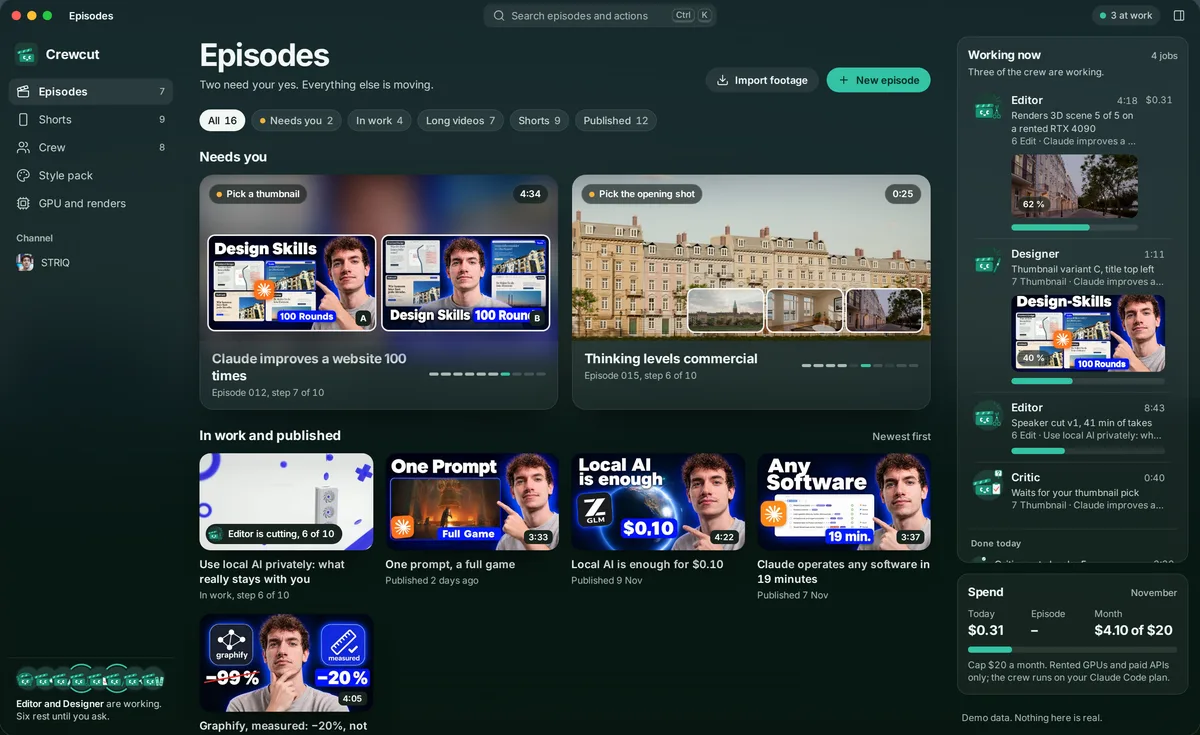
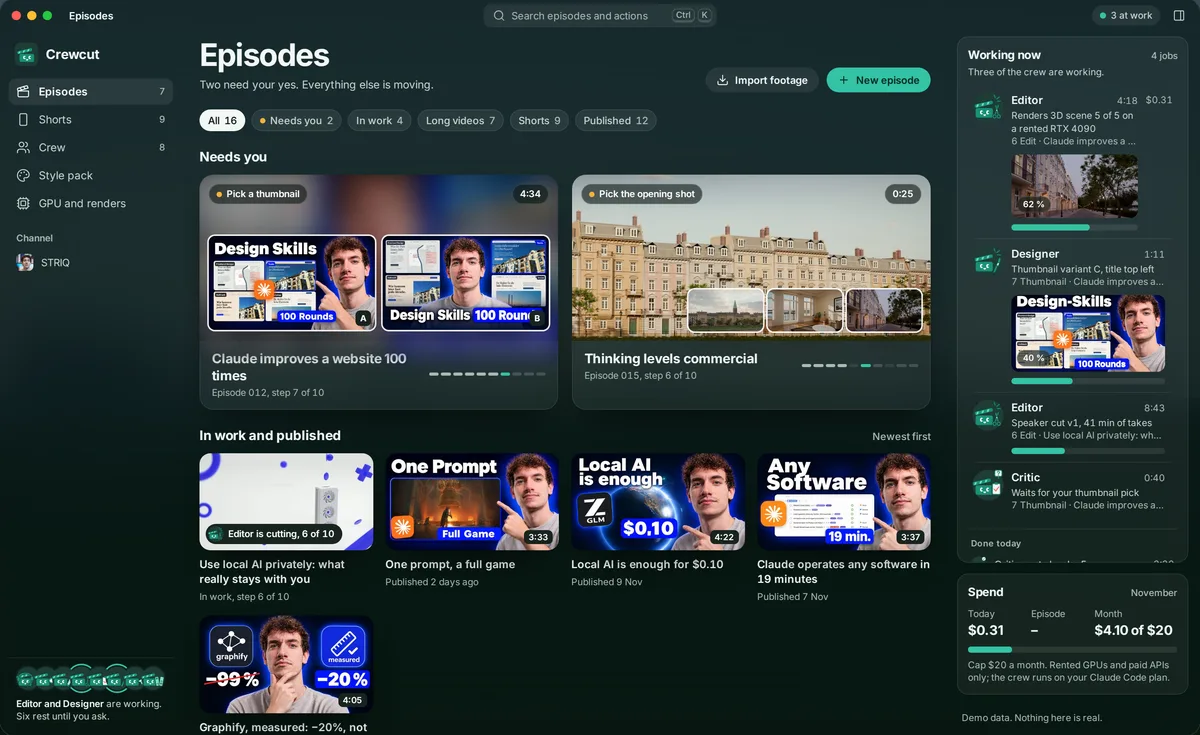
Landing page: app pictures from the same CI run as the README images (screens run 43982257994)
Claude-Session: https://claude.ai/code/session_0155cQo7JNko2nMx9UFSJV3g

diff --git a/site/media/CREDITS.md b/site/media/CREDITS.md
@@ -24,4 +24,4 @@ from Poly Haven (CC0).
 the studio rendered for a commercial, cut so that no words show.
 
 **The app** (`app/`, `crew/`): screenshots of the Crewcut web UI in demo mode, rendered in CI (screens workflow,
-commit 81336ee), cut to the window or to one part of it.
+commit 7468fca, run 43982257994, the same run as the README images), cut to the window or to one part of it.
